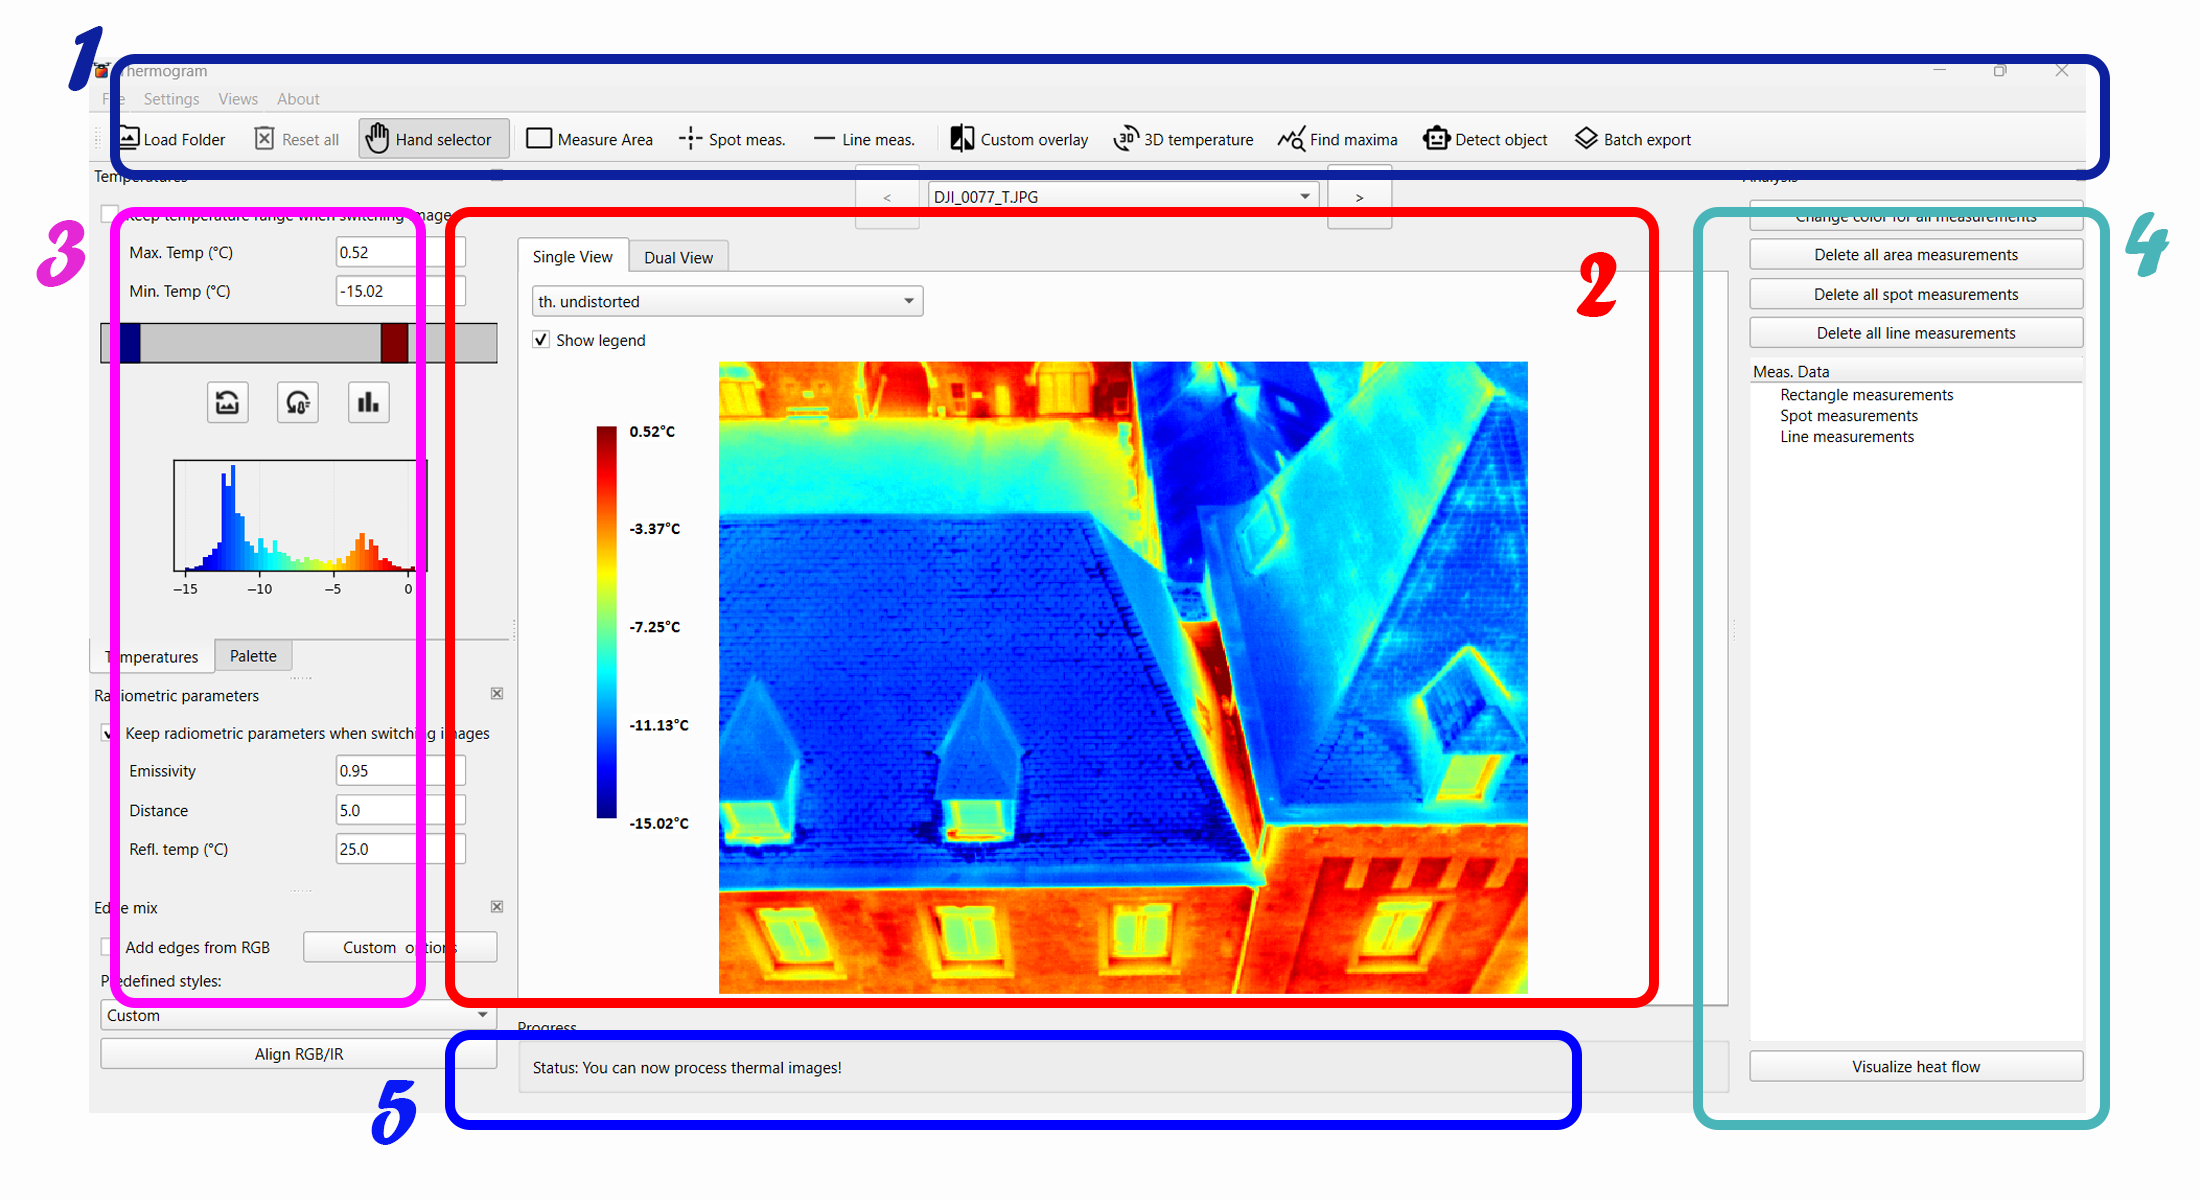
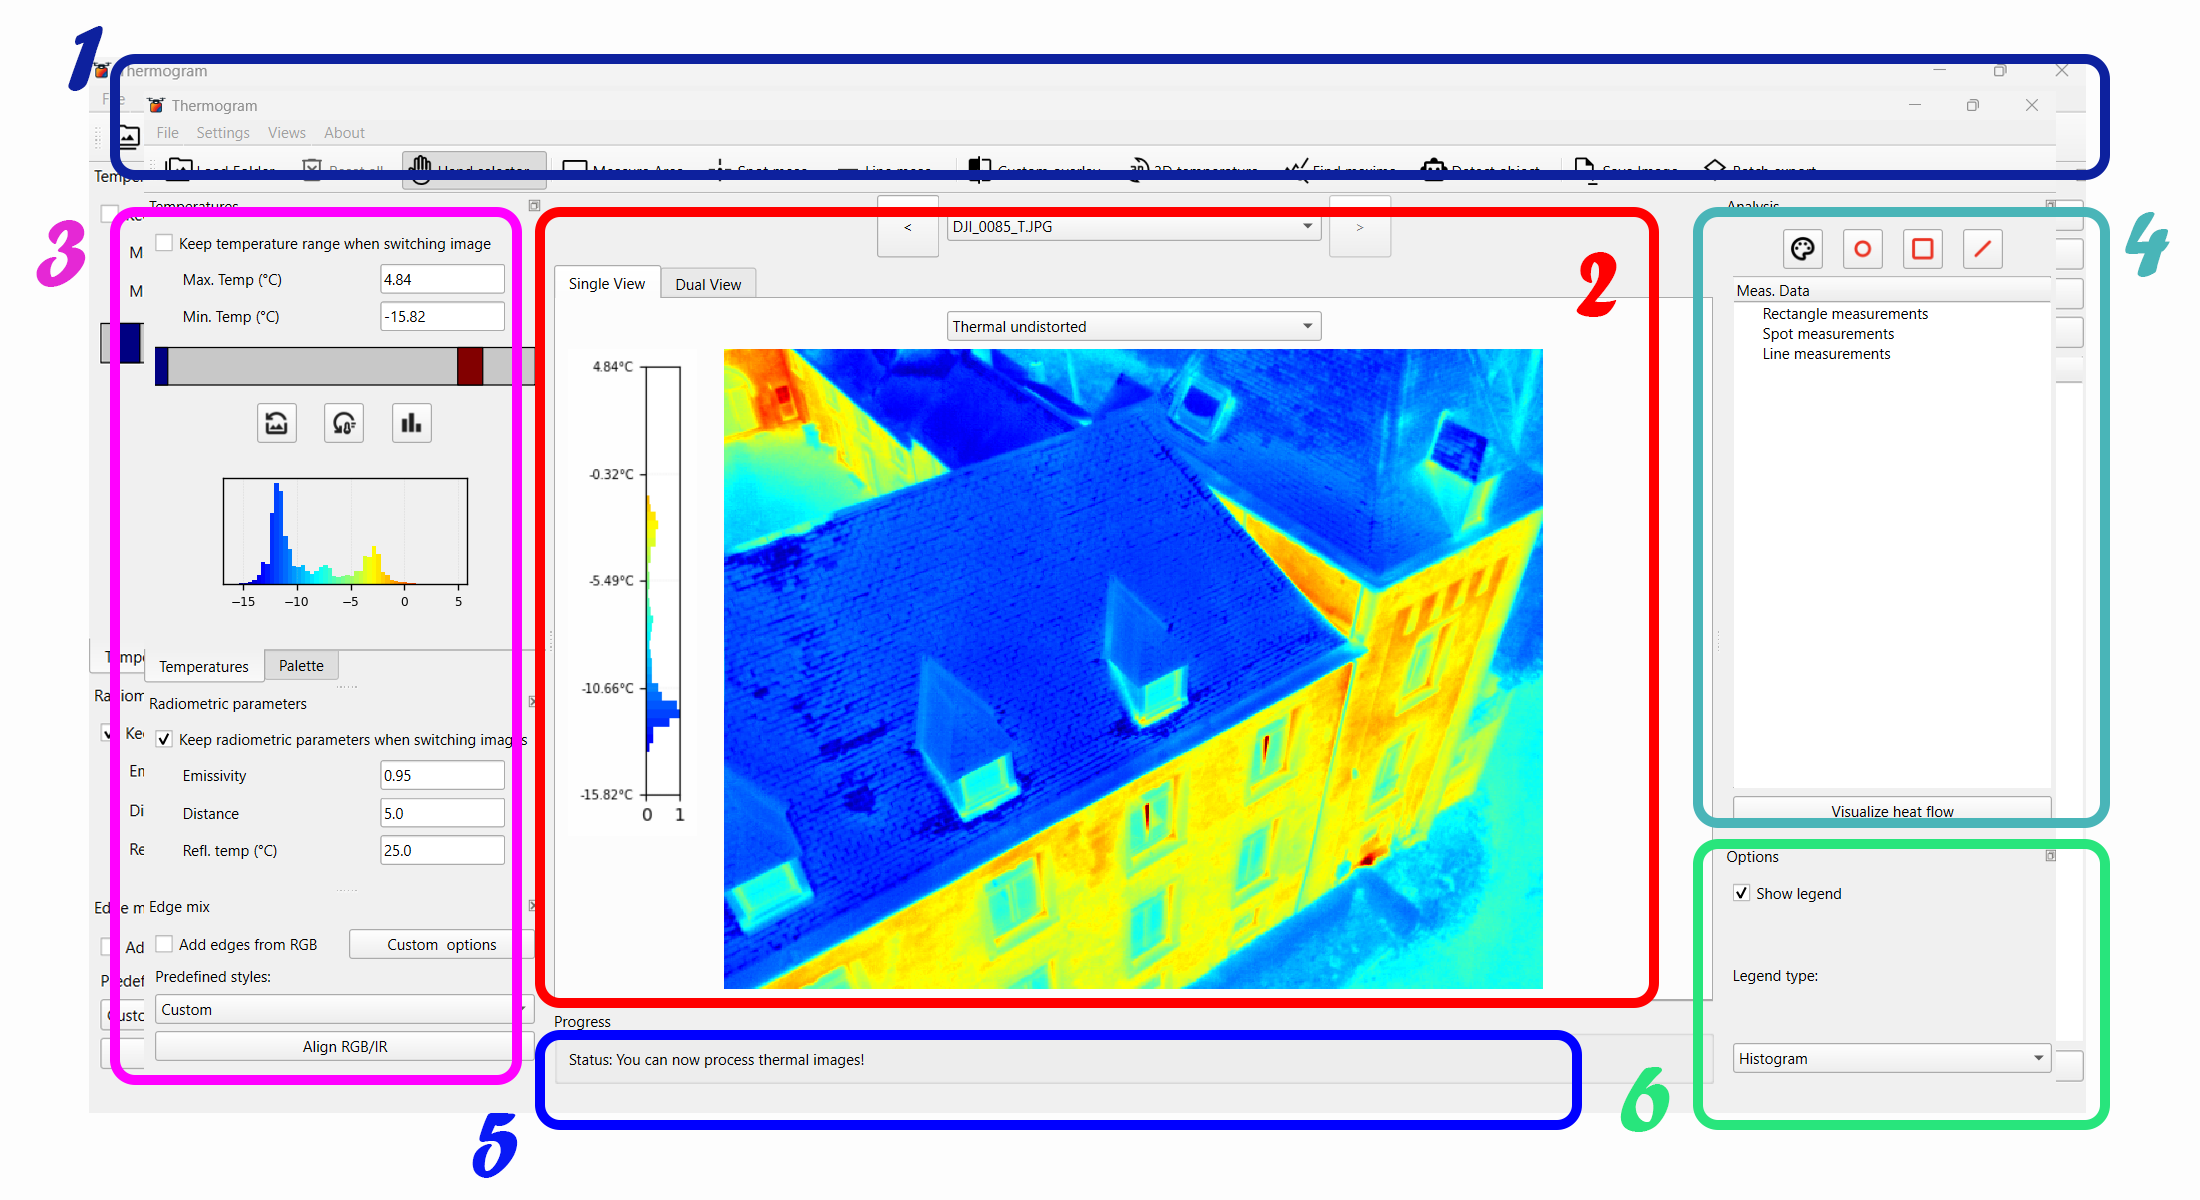
polished UI

Changed region(s): [[0.0309, 0.0617, 0.7727, 0.9867], [0.7418, 0.6475, 0.9582, 0.9558], [0.7727, 0.1542, 0.9273, 0.37]]

diff --git a/main.py b/main.py
@@ -1132,6 +1132,7 @@ class DroneIrWindow(QMainWindow):
         self.actionFind_maxima.setEnabled(True)
         self.actionProcess_all.setEnabled(True)
         self.actionCreate_anim.setEnabled(True)
+        self.actionSave_Image.setEnabled(True)
 
         # RGB condition
         if self.has_rgb:
@@ -1236,6 +1237,9 @@ class DroneIrWindow(QMainWindow):
             image.fill(Qt.GlobalColor.transparent)
 
             painter = QPainter(image)
+            painter.setRenderHint(QPainter.RenderHint.Antialiasing)
+            painter.setRenderHint(QPainter.RenderHint.TextAntialiasing)
+            painter.setRenderHint(QPainter.RenderHint.SmoothPixmapTransform)
 
             # First render the viewer itself
             self.viewer.render(painter, target=QRectF(0, 0, self.viewer.width(), self.viewer.height()))
@@ -1867,6 +1871,7 @@ class DroneIrWindow(QMainWindow):
         add_icon(res.find('img/maxima.png'), self.actionFind_maxima)
         add_icon(res.find('img/robot.png'), self.actionDetect_object)
         add_icon(res.find('img/layers.png'), self.actionProcess_all)
+        add_icon(res.find('img/save_image.png'), self.actionSave_Image)
 
         add_icon(res.find('img/reset_range.png'), self.pushButton_reset_range)
         add_icon(res.find('img/from_img.png'), self.pushButton_estimate)
